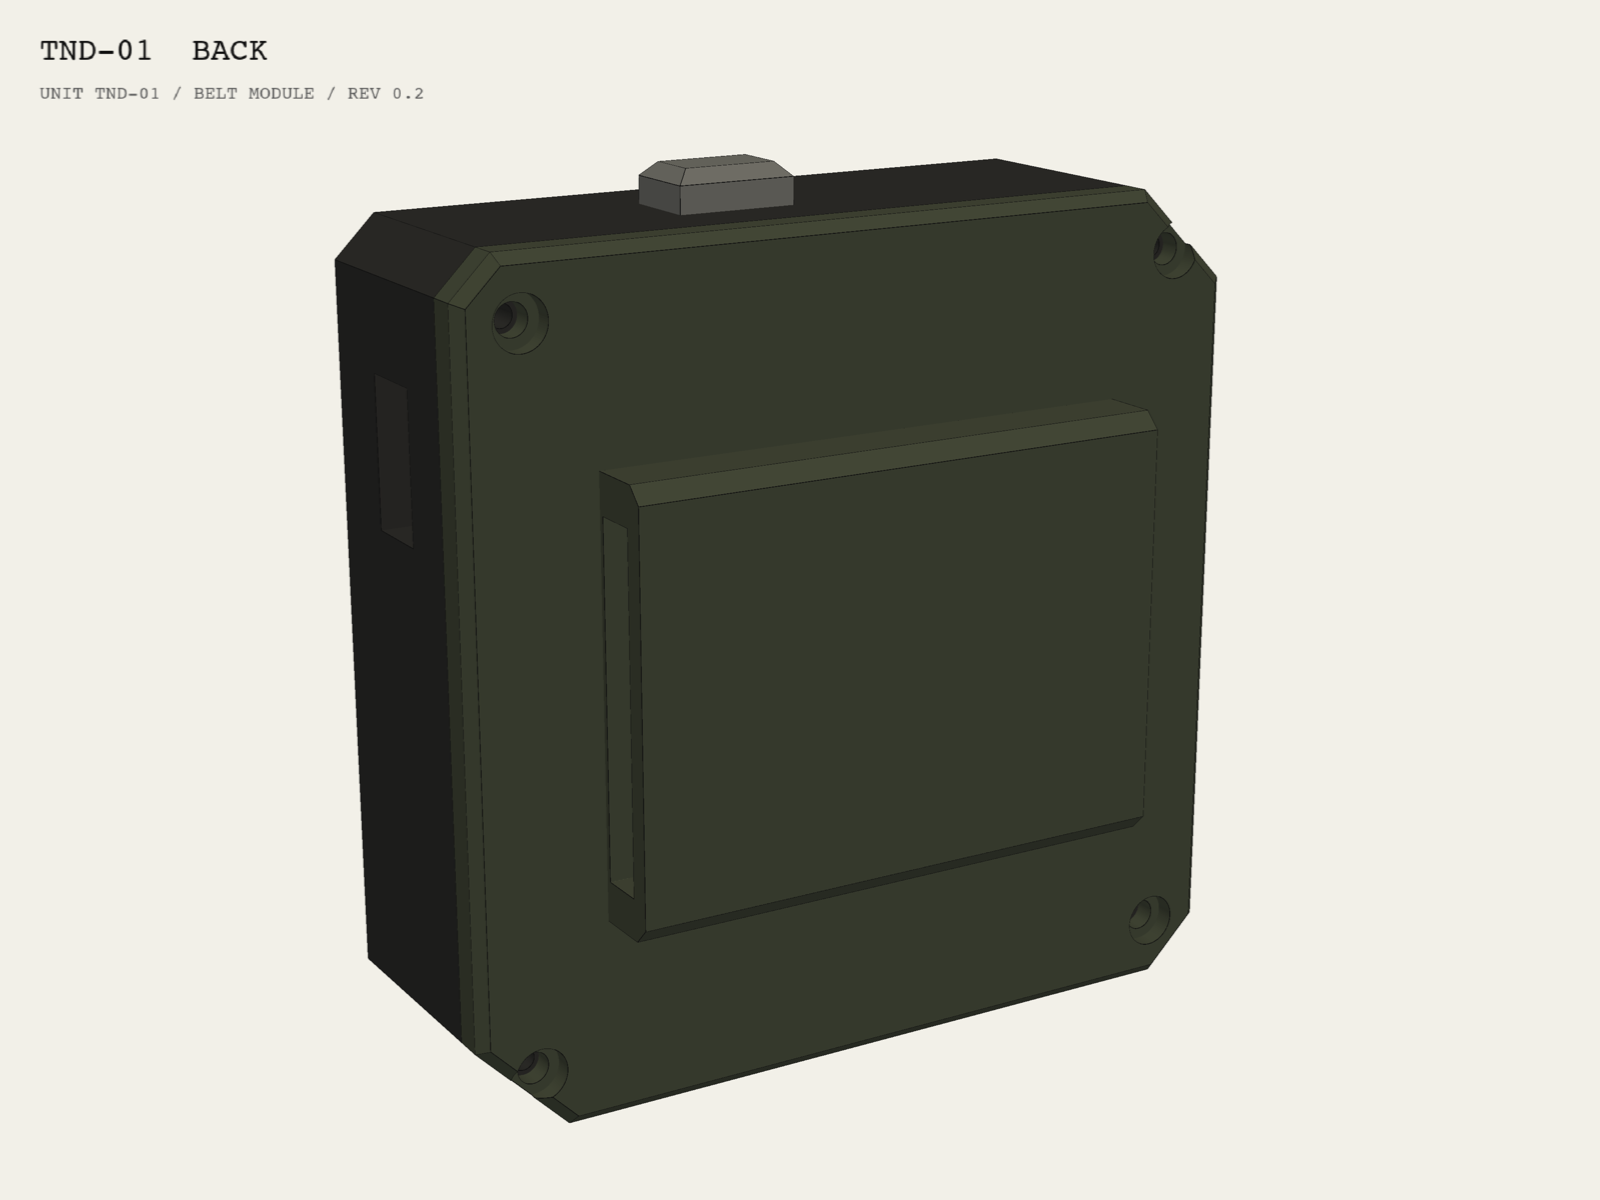
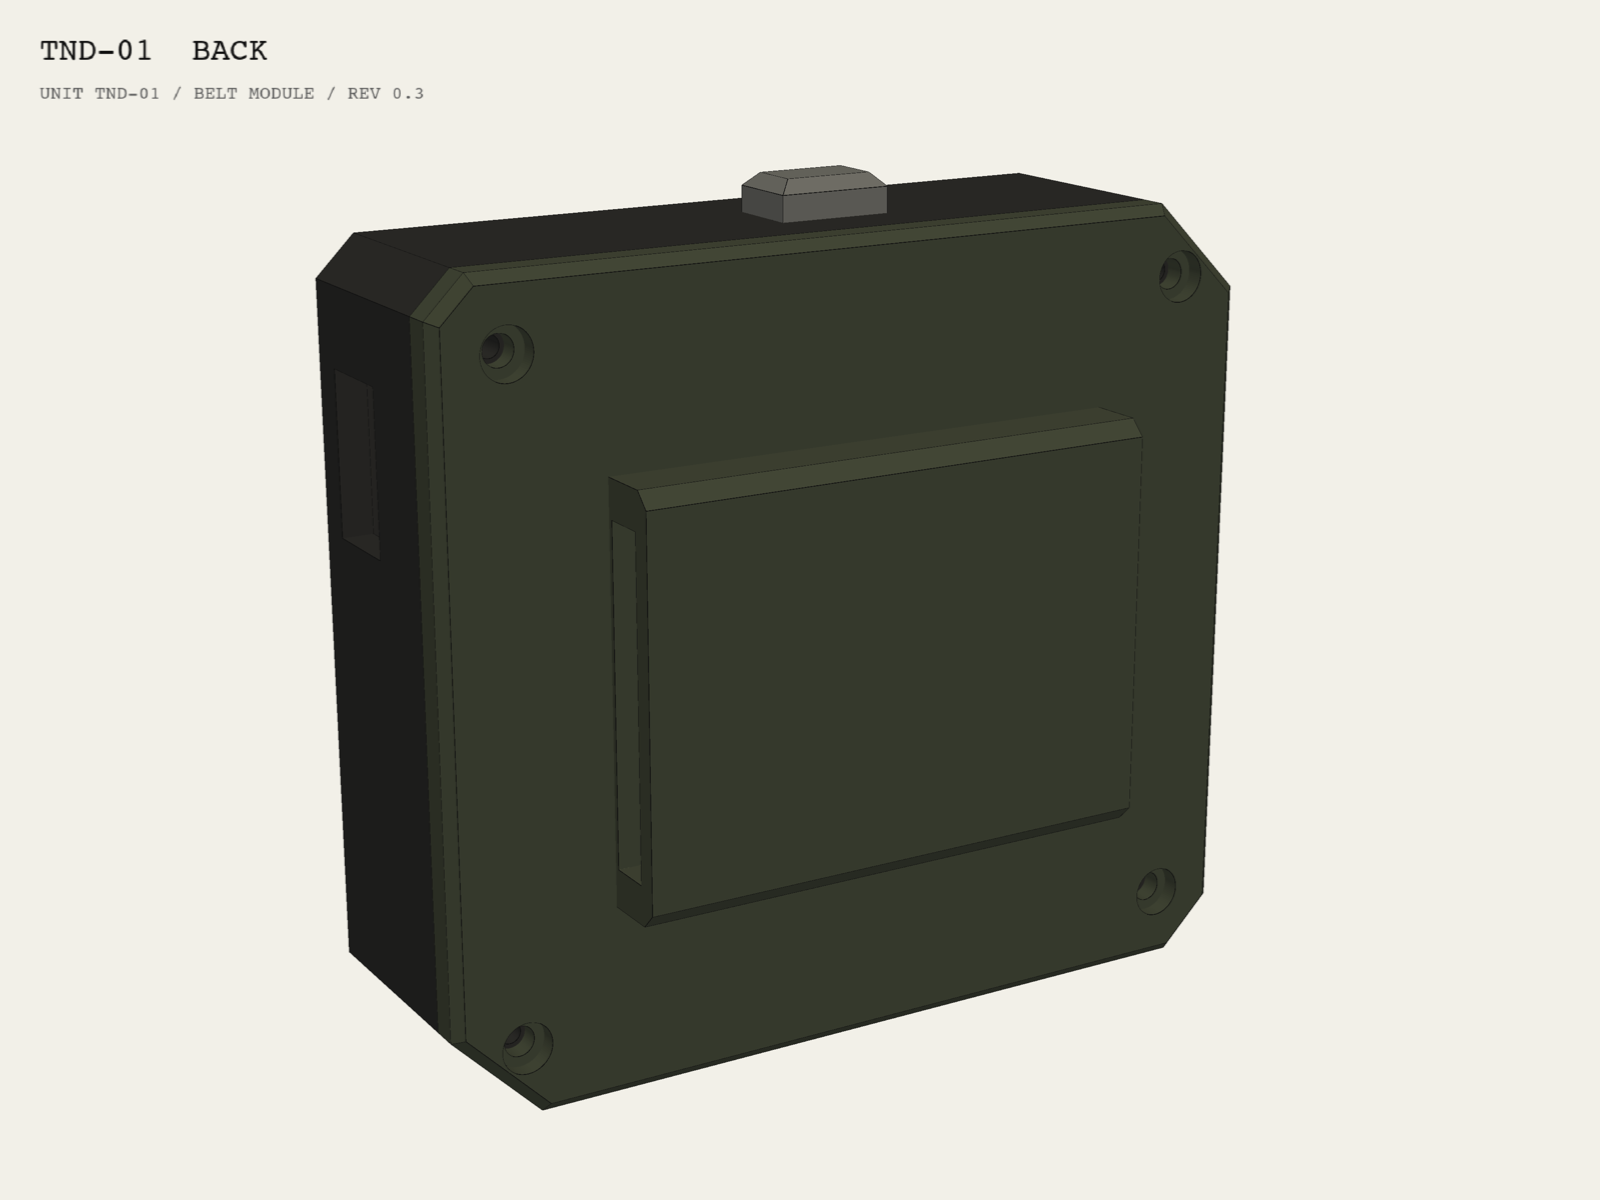
Enclosure rev 0.3: fit the real Dual Button unit
Read from the maker drawings (StickS3 K150, Unit Dual Button U025):
the Dual Button unit is 48 x 24 x 15 mm with keys, keys on the centre
line 14 mm apart; the StickS3 Grove port is on the USB-C end.

- Lower bay sized from the unit (48.6 x 24.6 mm); ACK and REQUEST caps
  over its keys, stem gap 0.2 mm (was a 6 mm guess into a 0.4 mm space).
- Cable bay at the right end for the two Grove plugs.
- Pocket and bay move left; shell 68 x 62 mm so the top-left screw has
  wall around it. Screws 1 mm further in: the heads cut through the
  corner chamfers.
- USB-C opening sized for the plug body and set at the port height.
- StickS3 screen, key A and key B positions from the drawing.
- Fit check also covers the Dual Button unit, screw walls and cable bay.

diff --git a/enclosure/tnd01_belt.py b/enclosure/tnd01_belt.py
@@ -1,4 +1,4 @@
-"""TND-01 belt module enclosure rev 0.2, concept B.
+"""TND-01 belt module enclosure rev 0.3, concept B.
 
 Ink Industrial design language: asymmetric faceted shell, overlapping armour
 plates with exposed screws, stencil-style markings. Orange stays on the
@@ -9,8 +9,13 @@ Rev 0.2 follows the design review of rev 0.1 (tender-vault
 with its function engraved next to it; no visor; no fixed battery marking;
 the wheel and the talk button are off until electronics stand behind them.
 
+Rev 0.3 fits the real Dual Button unit (48 x 24 x 15 mm with keys, maker
+drawing U025): the lower bay is full size, the ACK and REQUEST caps sit over
+its keys, and a cable bay at the right end holds the two Grove plugs. The
+shell is 6 mm wider for it.
+
 Parts:
-  front_shell  - main body with payload pocket, lower bay and plates
+  front_shell  - main body with payload pocket, lower bay, cable bay and plates
   back_cover   - screwed lid with the webbing belt loop
   key_step     - convex cap over StickS3 key A, right of the screen
   key_next     - pusher on the top face over StickS3 key B
@@ -55,13 +60,14 @@ def _screw_points(p: Tnd01Params):
 
 
 def _dual_xs(p: Tnd01Params):
-    c = p.controls
-    return [c.dual_x - c.dual_pitch / 2, c.dual_x + c.dual_pitch / 2]
+    """X of the ACK and REQUEST keys: keys at the left end of the unit."""
+    left = p.pocket_x - p.bay[0] / 2 + p.dual.clearance
+    return [left + k for k in p.dual.key_offsets]
 
 
 def _board_x(p: Tnd01Params, offset: float) -> float:
     """X of a point on the board, given its distance from the left end."""
-    return -p.pocket[0] / 2 + p.payload.clearance + offset
+    return p.pocket_x - p.pocket[0] / 2 + p.payload.clearance + offset
 
 
 def key_a_pos(p: Tnd01Params):
@@ -78,14 +84,14 @@ def _engrave(body, text, x, y, top, size, depth, align=Align.CENTER):
     return body - Pos(x, y, top - depth) * extrude(label, depth + 0.1)
 
 
-def key_row_y(p: Tnd01Params):
-    return p.pocket_center_y - p.pocket[1] / 2 - p.controls.key_row_from_pocket
-
-
 def bay_center_y(p: Tnd01Params):
-    s = p.shell
-    top = p.pocket_center_y - p.pocket[1] / 2 - s.rib
-    return top - s.bay_h / 2
+    top = p.pocket_center_y - p.pocket[1] / 2 - p.shell.rib
+    return top - p.bay[1] / 2
+
+
+def key_row_y(p: Tnd01Params):
+    """The Dual Button keys are on the centre line of the unit."""
+    return bay_center_y(p)
 
 
 def front_shell(p: Tnd01Params) -> Part:
@@ -98,19 +104,24 @@ def front_shell(p: Tnd01Params) -> Part:
     body = chamfer(front_edges, s.edge_chamfer)
 
     pw, ph, pd = p.pocket
-    cy = p.pocket_center_y
-    # Payload pocket and lower bay, open to the back.
-    body -= Pos(0, cy, s.back_t + pd / 2) * Box(pw, ph, pd)
-    body -= Pos(0, bay_center_y(p), s.back_t + pd / 2) * Box(s.bay_w, s.bay_h, pd)
+    cy, px = p.pocket_center_y, p.pocket_x
+    bw, bh = p.bay
+    by = bay_center_y(p)
+    # Payload pocket, lower bay and cable bay, open to the back.
+    body -= Pos(px, cy, s.back_t + pd / 2) * Box(pw, ph, pd)
+    body -= Pos(px, by, s.back_t + pd / 2) * Box(bw, bh, pd)
+    cl, cr = p.cable_bay
+    c_top, c_bot = cy + s.cable_bay_above, by - bh / 2
+    body -= Pos((cl + cr) / 2, (c_top + c_bot) / 2, s.back_t + pd / 2) * Box(cr - cl + 0.02, c_top - c_bot, pd)
 
     # Screen window through the front wall, with a shallow bevel recess.
-    win_x = -pw / 2 + pay.clearance + pay.screen_offset + pay.screen_len / 2
+    win_x = px - pw / 2 + pay.clearance + pay.screen_offset + pay.screen_len / 2
     body -= Pos(win_x, cy, d - s.front_wall / 2) * Box(pay.screen_len, pay.screen_h, s.front_wall + 0.2)
     body -= Pos(win_x, cy, d - 0.4) * Box(pay.screen_len + 3, pay.screen_h + 3, 0.81)
 
-    # USB-C port on the right wall, centred on the right end of the board.
-    usb_z = s.back_t + pd / 2
-    body -= Pos(pw / 2 + s.width / 4, cy, usb_z) * Box(s.width / 2, pay.usb_w, pay.usb_h)
+    # USB-C plug opening in the right wall, in line with the port.
+    usb_z = s.back_t + 0.2 + pay.usb_z
+    body -= Pos(cr + s.right_wall / 2, cy, usb_z) * Box(s.right_wall + 2, pay.usb_plug_w, pay.usb_plug_h)
 
     # Upper armour plate: frames the screen window and key A.
     ax, ay = key_a_pos(p)
@@ -136,14 +147,16 @@ def front_shell(p: Tnd01Params) -> Part:
     )
     body += Pos(0, 0, d) * extrude(lower, pl.lower_thickness)
     lower_top = d + pl.lower_thickness
+    legend_y = lo_t - 3.5
 
     # Engraved markings. The unit name only: a fixed battery value would be
     # false (design review R4). Key functions next to their keys (R2).
     upper_top = d + pl.thickness
-    body = _engrave(body, "UNIT TND-01", lo_l + 7.5, lo_t - 10.0, lower_top, pl.label_size,
+    unit_y = (legend_y - c.legend_size / 2 + lo_b) / 2
+    body = _engrave(body, "UNIT TND-01", lo_l + 7.5, unit_y, lower_top, pl.label_size,
                     pl.engrave_depth, Align.MIN)
     for text, kx in zip(("ACK", "REQ"), _dual_xs(p)):
-        body = _engrave(body, text, kx, lo_t - 3.5, lower_top, c.legend_size, pl.engrave_depth)
+        body = _engrave(body, text, kx, legend_y, lower_top, c.legend_size, pl.engrave_depth)
     body = _engrave(body, "STEP", ax, ay - c.key / 2 - 2.2, upper_top, c.legend_size, pl.engrave_depth)
     bx, bz = key_b_pos(p)
     body = _engrave(body, "NEXT", bx, up_t - 1.9, upper_top, c.legend_size, pl.engrave_depth)
@@ -174,7 +187,7 @@ def front_shell(p: Tnd01Params) -> Part:
 
     if c.wheel:
         wy = bay_center_y(p)
-        slot_l, slot_r = -s.width / 2 - 1, -s.bay_w / 2 + 1
+        slot_l, slot_r = -s.width / 2 - 1, px - bw / 2 + 1
         body -= Pos((slot_l + slot_r) / 2, wy, s.back_t + pd / 2) * Box(slot_r - slot_l, c.wheel_d + 1, c.wheel_w + 1)
     if c.talk:
         body -= Pos(c.talk_x, top_y, s.back_t + pd / 2) * Box(c.talk_w - 2, s.top_wall + 1, c.talk_d - 2)
@@ -226,7 +239,10 @@ def key_caps(p: Tnd01Params):
 
     ky = key_row_y(p)
     d_top = p.depth + pl.lower_thickness + c.key_proud
-    d_len = c.key_proud + pl.lower_thickness + s.front_wall + c.dual_reach
+    reach = pd - p.dual.height - c.dual_gap  # cap stem below the front wall, down to the keys
+    if reach < 0:
+        raise ValueError(f"lower bay is {-reach:.2f} mm too shallow for the Dual Button unit")
+    d_len = c.key_proud + pl.lower_thickness + s.front_wall + reach
     ack, request = (Pos(kx, ky, d_top) * _cap(c, d_len, top)
                     for kx, top in zip(_dual_xs(p), ("flat", "ribbed")))
     return step, ack, request

diff --git a/enclosure/params.py b/enclosure/params.py
@@ -13,45 +13,71 @@ from dataclasses import dataclass, field
 
 @dataclass(frozen=True)
 class Payload:
-    """Stage 0 board: M5Stack StickS3, lying landscape (screen at the left end)."""
+    """Stage 0 board: M5Stack StickS3, lying landscape (screen at the left end).
+
+    Values marked "drawing" are read from the maker's model size drawing
+    (K150-sticks3.pdf). Check them with calipers before the print.
+    """
 
     length: float = 48.0  # along X, maker spec
     width: float = 24.0  # along Y, maker spec
     depth: float = 15.0  # along Z, maker spec
     clearance: float = 0.3  # per side
-    # Screen position on the board, measured from the left end of the board.
-    screen_offset: float = 3.0  # [?]
-    screen_len: float = 26.0  # [?] window length along X
-    screen_h: float = 15.0  # [?] window height along Y
+    # Screen bezel position on the board, measured from the left end.
+    screen_offset: float = 3.8  # drawing
+    screen_len: float = 26.3  # drawing, along X
+    screen_h: float = 16.4  # drawing, along Y
     # StickS3 keys. Key A is on the front face, right of the screen. Key B is
     # on a long side and must face up (+Y); if it faces down on the real
     # board, turn the board and use display rotation 3 in the firmware.
-    key_a_offset: float = 38.0  # [?] centre of key A from the left end of the board
-    key_b_offset: float = 30.0  # [?] centre of key B from the left end of the board
+    key_a_offset: float = 37.5  # drawing: centre of key A from the left end of the board
+    key_b_offset: float = 24.0  # drawing: centre of key B from the left end of the board
     key_b_z: float = 7.5  # [?] centre of key B above the back face of the board
-    # USB-C port, centred on the right end of the board.
-    usb_w: float = 11.0  # [?] along Y
-    usb_h: float = 5.5  # [?] along Z
+    # The right end of the board has the USB-C port (front) and the Grove
+    # port (back), both centred along Y. Heights are above the back face.
+    usb_z: float = 10.2  # drawing
+    grove_z: float = 5.3  # drawing
+    # Opening in the right wall for a USB-C plug body, not only the port.
+    usb_plug_w: float = 12.5  # [?] along Y
+    usb_plug_h: float = 7.0  # [?] along Z
+
+
+@dataclass(frozen=True)
+class DualButton:
+    """M5Stack Unit Dual Button (U025), lying landscape in the lower bay,
+    keys up (toward the front), keys at the left end, Grove port at the
+    right end. Values from the maker's model size drawing (U025)."""
+
+    length: float = 48.0  # along X
+    width: float = 24.0  # along Y
+    height: float = 15.0  # along Z, back face to the top of the key caps
+    clearance: float = 0.3  # per side
+    key_offsets: tuple = (11.0, 25.0)  # key centres from the left end, on the centre line
+    key_d: float = 11.5  # key cap diameter
 
 
 @dataclass(frozen=True)
 class Shell:
-    width: float = 62.0  # X
+    width: float = 68.0  # X; rev 0.3: 62 left no room for the top-left screw beside the moved pocket
     height: float = 62.0  # Y
     wall: float = 2.0
+    left_wall: float = 7.6  # left of the payload pocket: room for the left screws
+    right_wall: float = 2.4  # right of the cable bay
     top_wall: float = 3.0  # above the payload pocket
     front_wall: float = 2.2  # in front of the payload
     back_t: float = 3.0  # back cover thickness
     # Asymmetric corner cuts: top-left, top-right, bottom-right, bottom-left.
     corner_cuts: tuple = (7.0, 3.0, 7.0, 4.0)
     edge_chamfer: float = 1.0
-    # Lower bay: free space under the payload for the M5Stack Dual Button unit
-    # (ACK and REQUEST keys, Grove port) in stage 0.
-    bay_w: float = 44.0
-    bay_h: float = 20.0
+    # The lower bay holds the Dual Button unit; its size comes from
+    # DualButton. The cable bay at the right end holds both Grove plugs and
+    # the short cable between them. The payload pocket moves left to make
+    # room for it.
     rib: float = 2.0  # rib between the payload pocket and the lower bay
+    cable_bay_min: float = 8.0  # [?] Grove plug length plus cable bend
+    cable_bay_above: float = 6.0  # cable bay top above the pocket centre line
     # Back cover screws: M2 x 16 (or longer) self-tapping into the front shell.
-    screw_inset: float = 4.6
+    screw_inset: float = 5.6  # rev 0.3: 4.6 cut the screw heads open on the 7 mm corner cuts
     screw_clear_d: float = 2.4
     screw_pilot_d: float = 1.7
     screw_head_d: float = 4.0
@@ -66,10 +92,7 @@ class Controls:
     key: float = 8.0  # square key cap
     key_travel_hole: float = 8.4
     key_proud: float = 2.0  # how far the cap stands above the front plate
-    key_row_from_pocket: float = 8.0  # ACK / REQUEST row centre below the payload pocket
-    dual_pitch: float = 14.0  # [?] distance between the 2 Dual Button keys
-    dual_x: float = 0.0  # [?] centre of the Dual Button key pair
-    dual_reach: float = 6.0  # [?] cap stem length inside the bay, down to the Dual Button keys
+    dual_gap: float = 0.2  # free gap between the ACK / REQUEST caps and the Dual Button keys
     pusher_w: float = 9.0  # NEXT pusher on the top face, over StickS3 key B
     pusher_d: float = 6.0
     pusher_h: float = 3.0
@@ -118,6 +141,7 @@ class BeltLoop:
 @dataclass(frozen=True)
 class Tnd01Params:
     payload: Payload = field(default_factory=Payload)
+    dual: DualButton = field(default_factory=DualButton)
     shell: Shell = field(default_factory=Shell)
     controls: Controls = field(default_factory=Controls)
     plates: Plates = field(default_factory=Plates)
@@ -127,6 +151,22 @@ class Tnd01Params:
     def pocket(self):
         p = self.payload
         return (p.length + 2 * p.clearance, p.width + 2 * p.clearance, p.depth + 0.4)
+
+    @property
+    def bay(self):
+        d = self.dual
+        return (d.length + 2 * d.clearance, d.width + 2 * d.clearance)
+
+    @property
+    def pocket_x(self):
+        """The pocket and the lower bay sit near the left wall."""
+        return -self.shell.width / 2 + self.shell.left_wall + self.pocket[0] / 2
+
+    @property
+    def cable_bay(self):
+        """X range of the cable bay, right of the pocket and the lower bay."""
+        left = self.pocket_x + max(self.pocket[0], self.bay[0]) / 2
+        return left, self.shell.width / 2 - self.shell.right_wall
 
     @property
     def depth(self):

diff --git a/enclosure/build.py b/enclosure/build.py
@@ -7,15 +7,16 @@ Exports go to out/ (ignored by Git). Released files are copied to exports/
 only for tagged releases.
 """
 import argparse
+import math
 import sys
 from pathlib import Path
 
 sys.path.insert(0, str(Path(__file__).parent))
 
-from build123d import Box, Color, Compound, Pos, export_step, export_stl  # noqa: E402
+from build123d import Box, Color, Compound, Cylinder, Pos, export_step, export_stl  # noqa: E402
 
 from params import Tnd01Params  # noqa: E402
-from tnd01_belt import build  # noqa: E402
+from tnd01_belt import _screw_points, bay_center_y, build  # noqa: E402
 
 COLORS = {
     "front_shell": Color(0.12, 0.12, 0.11),
@@ -31,7 +32,13 @@ COLORS = {
 
 def payload_dummy(p: Tnd01Params):
     pay = p.payload
-    return Pos(0, p.pocket_center_y, p.shell.back_t + pay.depth / 2 + 0.2) * Box(pay.length, pay.width, pay.depth)
+    return Pos(p.pocket_x, p.pocket_center_y, p.shell.back_t + pay.depth / 2 + 0.2) * Box(pay.length, pay.width, pay.depth)
+
+
+def dual_dummy(p: Tnd01Params):
+    """Dual Button unit as a block up to the top of its keys."""
+    d = p.dual
+    return Pos(p.pocket_x, bay_center_y(p), p.shell.back_t + d.height / 2) * Box(d.length, d.width, d.height)
 
 
 def check(parts: dict, p: Tnd01Params) -> list[str]:
@@ -41,19 +48,32 @@ def check(parts: dict, p: Tnd01Params) -> list[str]:
             problems.append(f"{name}: invalid solid")
         if part.volume <= 0:
             problems.append(f"{name}: zero volume")
-    dummy = payload_dummy(p)
+    dummies = {"StickS3": payload_dummy(p), "Dual Button unit": dual_dummy(p)}
     for name in ("front_shell", "back_cover"):
-        overlap = (parts[name] & dummy).volume
-        if overlap > 1e-3:
-            problems.append(f"{name}: overlaps the payload by {overlap:.2f} mm3")
-    # Moving parts must not collide with the shell or the board.
+        for what, dummy in dummies.items():
+            overlap = (parts[name] & dummy).volume
+            if overlap > 1e-3:
+                problems.append(f"{name}: overlaps the {what} by {overlap:.2f} mm3")
+    # Moving parts must not collide with the shell or the boards.
     for name in [n for n in parts if n not in ("front_shell", "back_cover")]:
         overlap = (parts["front_shell"] & parts[name]).volume
         if overlap > 1e-3:
             problems.append(f"{name}: collides with front_shell by {overlap:.2f} mm3")
-        overlap = (dummy & parts[name]).volume
-        if overlap > 1e-3:
-            problems.append(f"{name}: presses into the board by {overlap:.2f} mm3")
+        for what, dummy in dummies.items():
+            overlap = (dummy & parts[name]).volume
+            if overlap > 1e-3:
+                problems.append(f"{name}: presses into the {what} by {overlap:.2f} mm3")
+    # Each screw pilot hole needs solid wall around it, clear of every cavity.
+    s = p.shell
+    for sx, sy in _screw_points(p):
+        r, wall = s.screw_pilot_d / 2, 0.8
+        ring = Pos(sx, sy, s.back_t + 4) * Cylinder(r + wall, 8)
+        missing = ring.volume - (ring & parts["front_shell"]).volume
+        if missing > math.pi * r * r * 8 + 0.5:
+            problems.append(f"screw at ({sx:.1f}, {sy:.1f}): less than {wall} mm wall around the pilot hole")
+    cl, cr = p.cable_bay
+    if cr - cl < p.shell.cable_bay_min:
+        problems.append(f"cable bay is {cr - cl:.1f} mm wide, needs {p.shell.cable_bay_min:.1f} mm")
     return problems
 
 
@@ -70,6 +90,8 @@ def main() -> int:
     bb = Compound(children=list(parts.values())).bounding_box()
     print(f"envelope: {bb.size.X:.1f} x {bb.size.Y:.1f} x {bb.size.Z:.1f} mm (with belt loop and controls)")
     print(f"shell: {p.shell.width:.1f} x {p.shell.height:.1f} x {p.depth:.1f} mm")
+    cl, cr = p.cable_bay
+    print(f"lower bay: {p.bay[0]:.1f} x {p.bay[1]:.1f} mm, cable bay: {cr - cl:.1f} mm wide")
     for name, part in parts.items():
         print(f"  {name:12s} volume {part.volume / 1000:6.2f} cm3")
 

diff --git a/enclosure/render.py b/enclosure/render.py
@@ -66,7 +66,7 @@ def render(parts, path, direction, explode=None, title=None, size=(1600, 1200)):
     pl.reset_camera_clipping_range()
     if title:
         pl.add_text(title, position=(40, size[1] - 70), font_size=16, color=INK, font="courier")
-        pl.add_text("UNIT TND-01 / BELT MODULE / REV 0.2", position=(40, size[1] - 105),
+        pl.add_text("UNIT TND-01 / BELT MODULE / REV 0.3", position=(40, size[1] - 105),
                     font_size=9, color=(0.35, 0.35, 0.35), font="courier")
     pl.screenshot(str(path))
     pl.close()
